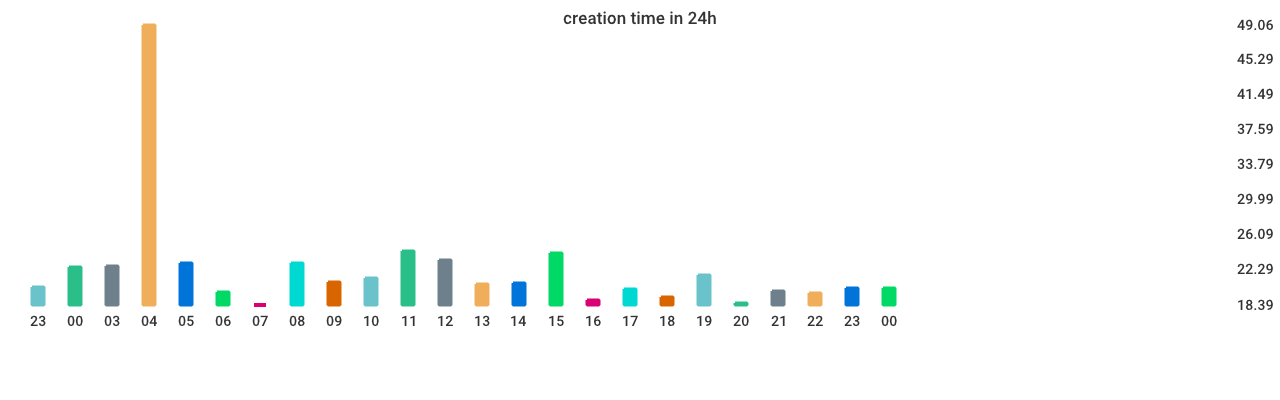
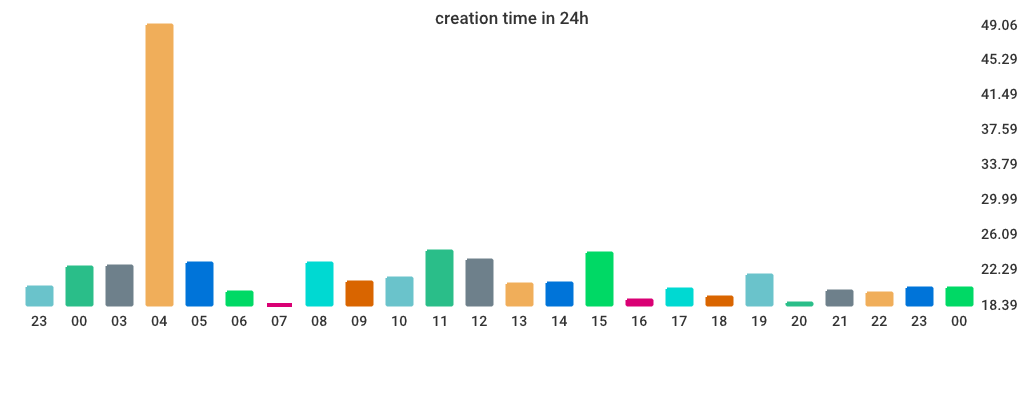
update graph

diff --git a/main.go b/main.go
@@ -237,10 +237,10 @@ func genGraph() error {
 			Name:  "seconds",
 			Style: chart.StyleShow(),
 		},
-		Width:      1280,
-		BarWidth:   1200 / len(values) / 2,
-		BarSpacing: 1200 / len(values) / 2,
-		Bars:       values,
+		Width: 1024,
+		// BarWidth:   1200 / len(values) / 2,
+		// BarSpacing: 1200 / len(values) / 2,
+		Bars: values,
 	}
 
 	graph.BarWidth = graph.GetBarWidth() / 2
